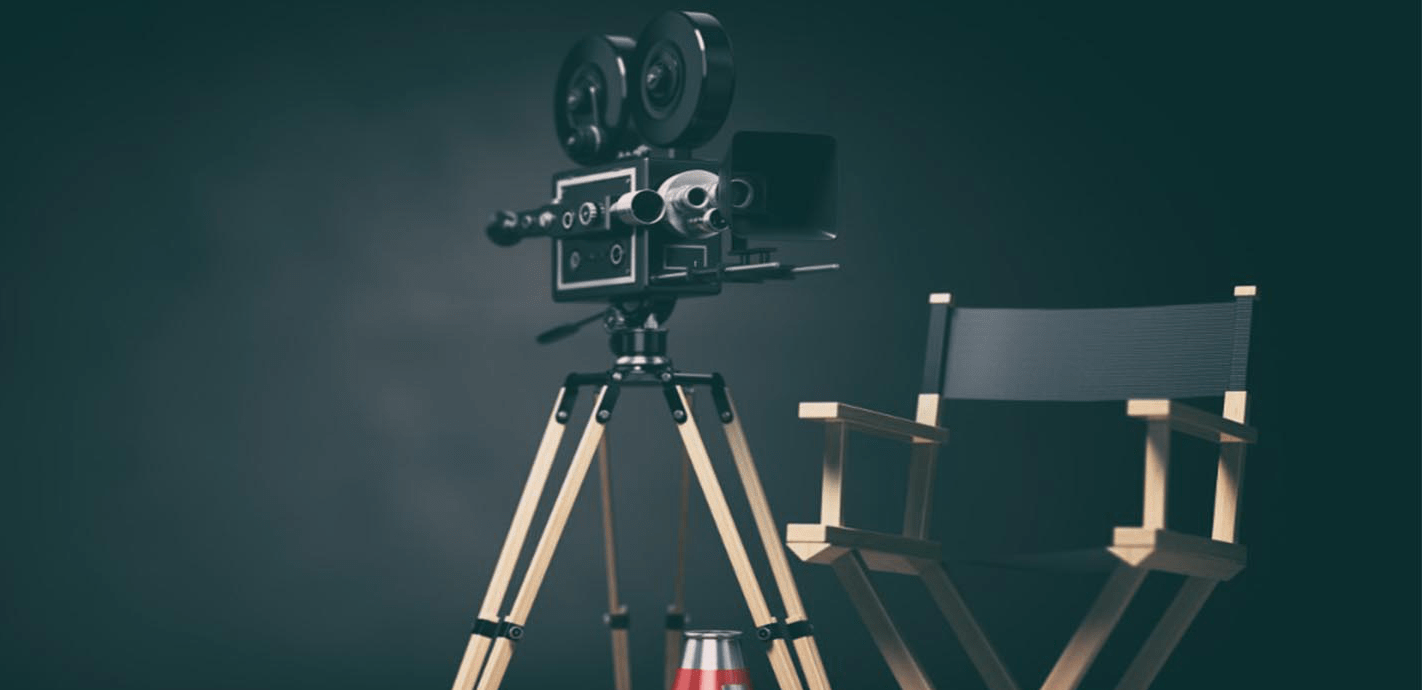
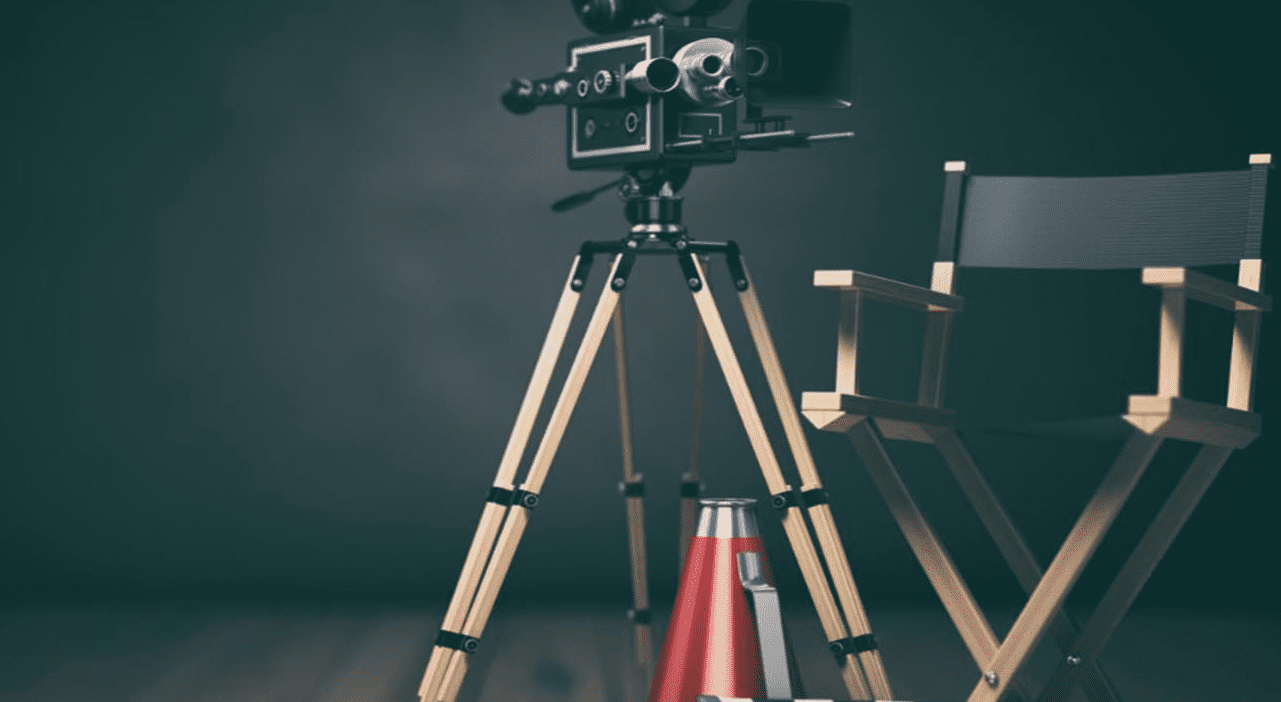
Projeto Finalizado
- Adicional no projeto é que tem página para cada botão no menu.

diff --git a/destaques.html b/destaques.html
@@ -5,6 +5,7 @@
     <meta http-equiv="X-UA-Compatible" content="IE=edge">
     <meta name="viewport" content="width=device-width, initial-scale=1.0">
     <link rel="stylesheet" type="text/css" href="_css/main.css"/>
+    <link rel="stylesheet" type="text/css" href="_css/responsive.css"/>
     <link rel="stylesheet" type="text/css" href="_css/owl/owl.carousel.min.css"/>
     <link rel="stylesheet" type="text/css" href="_css/owl/owl.theme.default.min.css"/>
     <title>NETFLIX CLONE</title>
@@ -25,7 +26,7 @@
         <div id="poster-destaques" class="inicio-principal">
             <div class="container">
                 <h3 class="titulo">Destaques</h3>
-                <P class="descricao">Sejam P&B ou colorido tem produção que merece destaque.</P>
+                <P class="descricao">Sejam P&B ou colorido tem produção que merece destaque.<br><b>Alfred Hitchcock</b> é considerado o "mestre do suspense" e até hoje serve de inspiração declarada para outros diretores, como Steven Spielberg, Martin Scorsese e Quentin Tarantino.</p>
                 <div class="botoes">
                     <button role="button" class="botao">
                         <i class="fas fa-play"></i>
@@ -42,10 +43,19 @@
     <div class="carrossel-inicio">
         <div class="owl-carousel owl-theme">
             <div class="item">
-                <img class="box-poster" src="_img/destaque01-min.png" alt="">
+                <img class="box-poster" src="_img/destaque01-min.png" alt="Janela Indiscreta">
             </div>
             <div class="item">
-                <img class="box-poster" src="_img/destaque02-min.png" alt="">
+                <img class="box-poster" src="_img/destaque02-min.png" alt="Psicose">
+            </div>
+            <div class="item">
+                <img class="box-poster" src="_img/destaque03-min.png" alt="Os Pássaros">
+            </div>
+            <div class="item">
+                <img class="box-poster" src="_img/destaque04-min.png" alt="Um Corpo que Cai">
+            </div>
+            <div class="item">
+                <img class="box-poster" src="_img/destaque05-min.png" alt="O Terceiro Tiro">
             </div>
         </div>
     </div>

diff --git a/_css/main.css b/_css/main.css
@@ -14,6 +14,7 @@ body {
     background: var(--preto);
     font-family: 'Arial Black', Arial, Helvetica, sans-serif;
     color: white;
+    text-align: justify;
 }
 
 header div.container {
@@ -53,19 +54,19 @@ header nav a:hover {
 }
 
 #poster-inicio {
-    background: linear-gradient(rgba(0,0,0,.50),rgba(0,0,0,.50)100%), url('../_img/cinema_classico.png');
+    background: linear-gradient(rgba(0,0,0,.60),rgba(0,0,0,.60)100%), url('../_img/cinema_classico.png');
 }
 
 #poster-filmes {
-    background: linear-gradient(rgba(0,0,0,.50),rgba(0,0,0,.50)100%), url('../_img/filmes.png');
+    background: linear-gradient(rgba(0,0,0,.60),rgba(0,0,0,.60)100%), url('../_img/filmes.png');
 }
 
 #poster-series {
-    background: linear-gradient(rgba(0,0,0,.50),rgba(0,0,0,.50)100%), url('../_img/series.png');
+    background: linear-gradient(rgba(0,0,0,.60),rgba(0,0,0,.60)100%), url('../_img/series.png');
 }
 
 #poster-destaques {
-    background: linear-gradient(rgba(0,0,0,.50),rgba(0,0,0,.50)100%), url('../_img/destaques.png');
+    background: linear-gradient(rgba(0,0,0,.60),rgba(0,0,0,.60)100%), url('../_img/destaques.png');
 }
 
 .filme-principal .descricao {
@@ -101,6 +102,7 @@ header nav a:hover {
 
 .container {
     margin-left: 20px;
+    margin-right: 20px;
 }
 
 .filme-principal .container {
@@ -109,6 +111,10 @@ header nav a:hover {
 
 .box-poster {
     height: 100%;
-    width: 4100%;
+    width: 100%;
     display: block;
+}
+
+.carrossel-inicio {
+    margin-top: 5px;
 }

diff --git a/filmes.html b/filmes.html
@@ -5,6 +5,7 @@
     <meta http-equiv="X-UA-Compatible" content="IE=edge">
     <meta name="viewport" content="width=device-width, initial-scale=1.0">
     <link rel="stylesheet" type="text/css" href="_css/main.css"/>
+    <link rel="stylesheet" type="text/css" href="_css/responsive.css"/>
     <link rel="stylesheet" type="text/css" href="_css/owl/owl.carousel.min.css"/>
     <link rel="stylesheet" type="text/css" href="_css/owl/owl.theme.default.min.css"/>
     <title>NETFLIX CLONE</title>

diff --git a/index.html b/index.html
@@ -5,6 +5,7 @@
     <meta http-equiv="X-UA-Compatible" content="IE=edge">
     <meta name="viewport" content="width=device-width, initial-scale=1.0">
     <link rel="stylesheet" type="text/css" href="_css/main.css"/>
+    <link rel="stylesheet" type="text/css" href="_css/responsive.css"/>
     <link rel="stylesheet" type="text/css" href="_css/owl/owl.carousel.min.css"/>
     <link rel="stylesheet" type="text/css" href="_css/owl/owl.theme.default.min.css"/>
     <title>NETFLIX CLONE</title>

diff --git a/series.html b/series.html
@@ -5,6 +5,7 @@
     <meta http-equiv="X-UA-Compatible" content="IE=edge">
     <meta name="viewport" content="width=device-width, initial-scale=1.0">
     <link rel="stylesheet" type="text/css" href="_css/main.css"/>
+    <link rel="stylesheet" type="text/css" href="_css/responsive.css"/>
     <link rel="stylesheet" type="text/css" href="_css/owl/owl.carousel.min.css"/>
     <link rel="stylesheet" type="text/css" href="_css/owl/owl.theme.default.min.css"/>
     <title>NETFLIX CLONE</title>

diff --git a/_css/responsive.css b/_css/responsive.css
@@ -1,0 +1,19 @@
+@charset "UTF-8";
+
+@media screen and (max-width:700px){
+    header div.container{
+    display: flex;
+    flex-direction: column;
+    }
+}
+
+    .botao{
+        margin-top: 5px;
+        width: 300px;
+}
+
+@media screen and (min-width:1000px){
+    .descricao{
+        width: 50%;
+    }
+}
